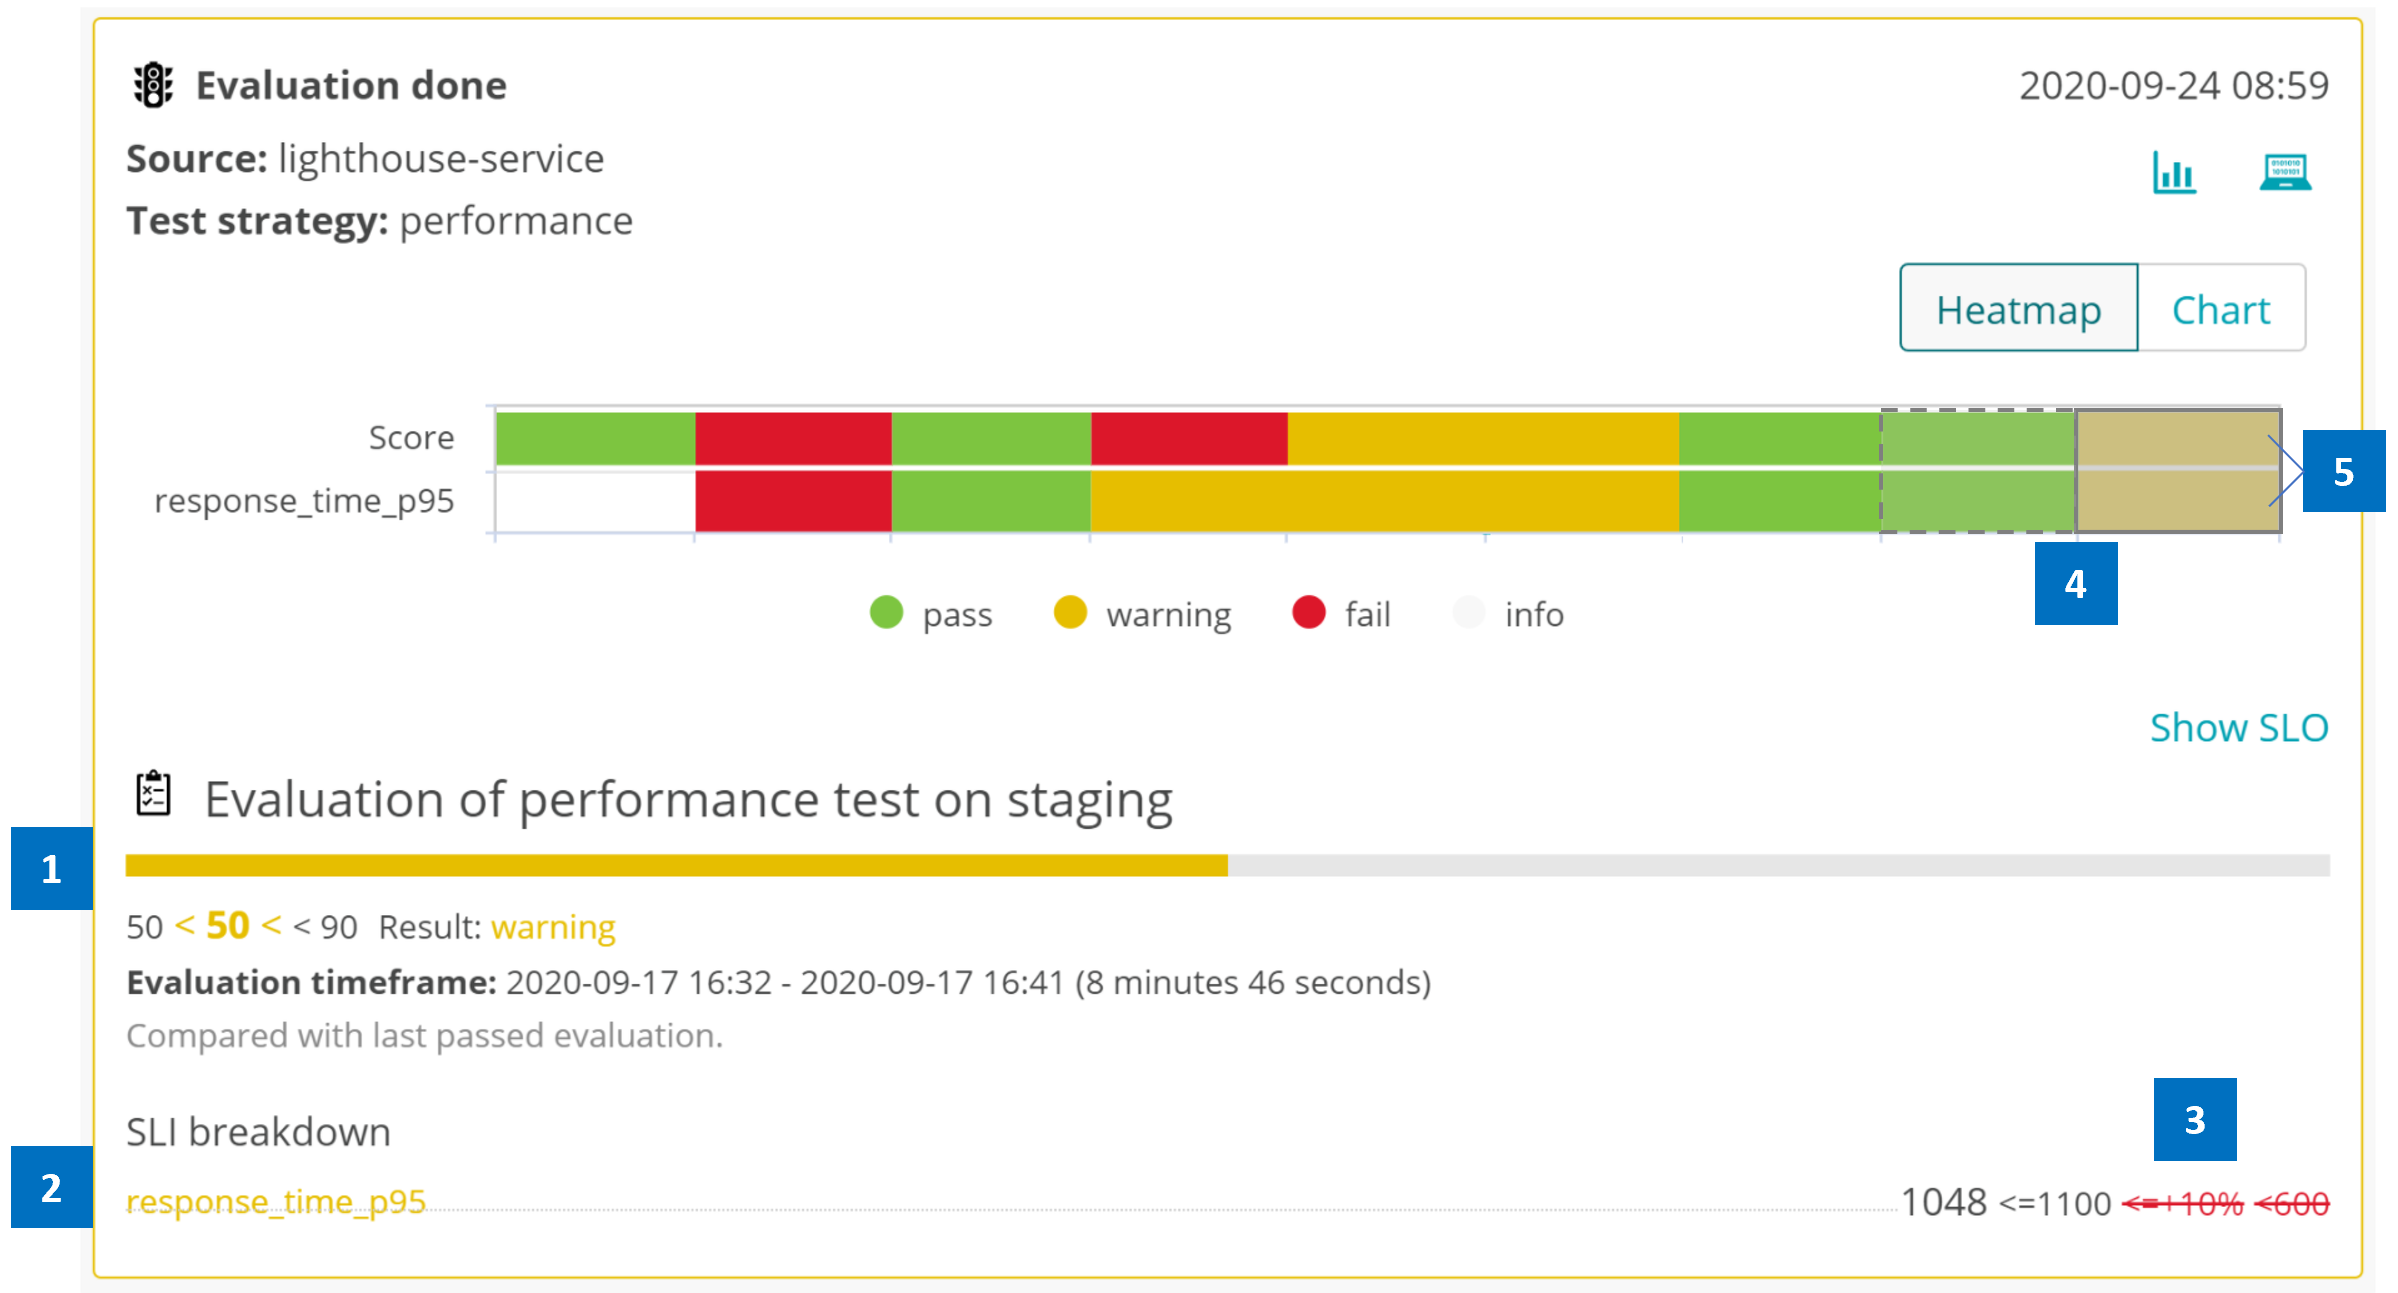
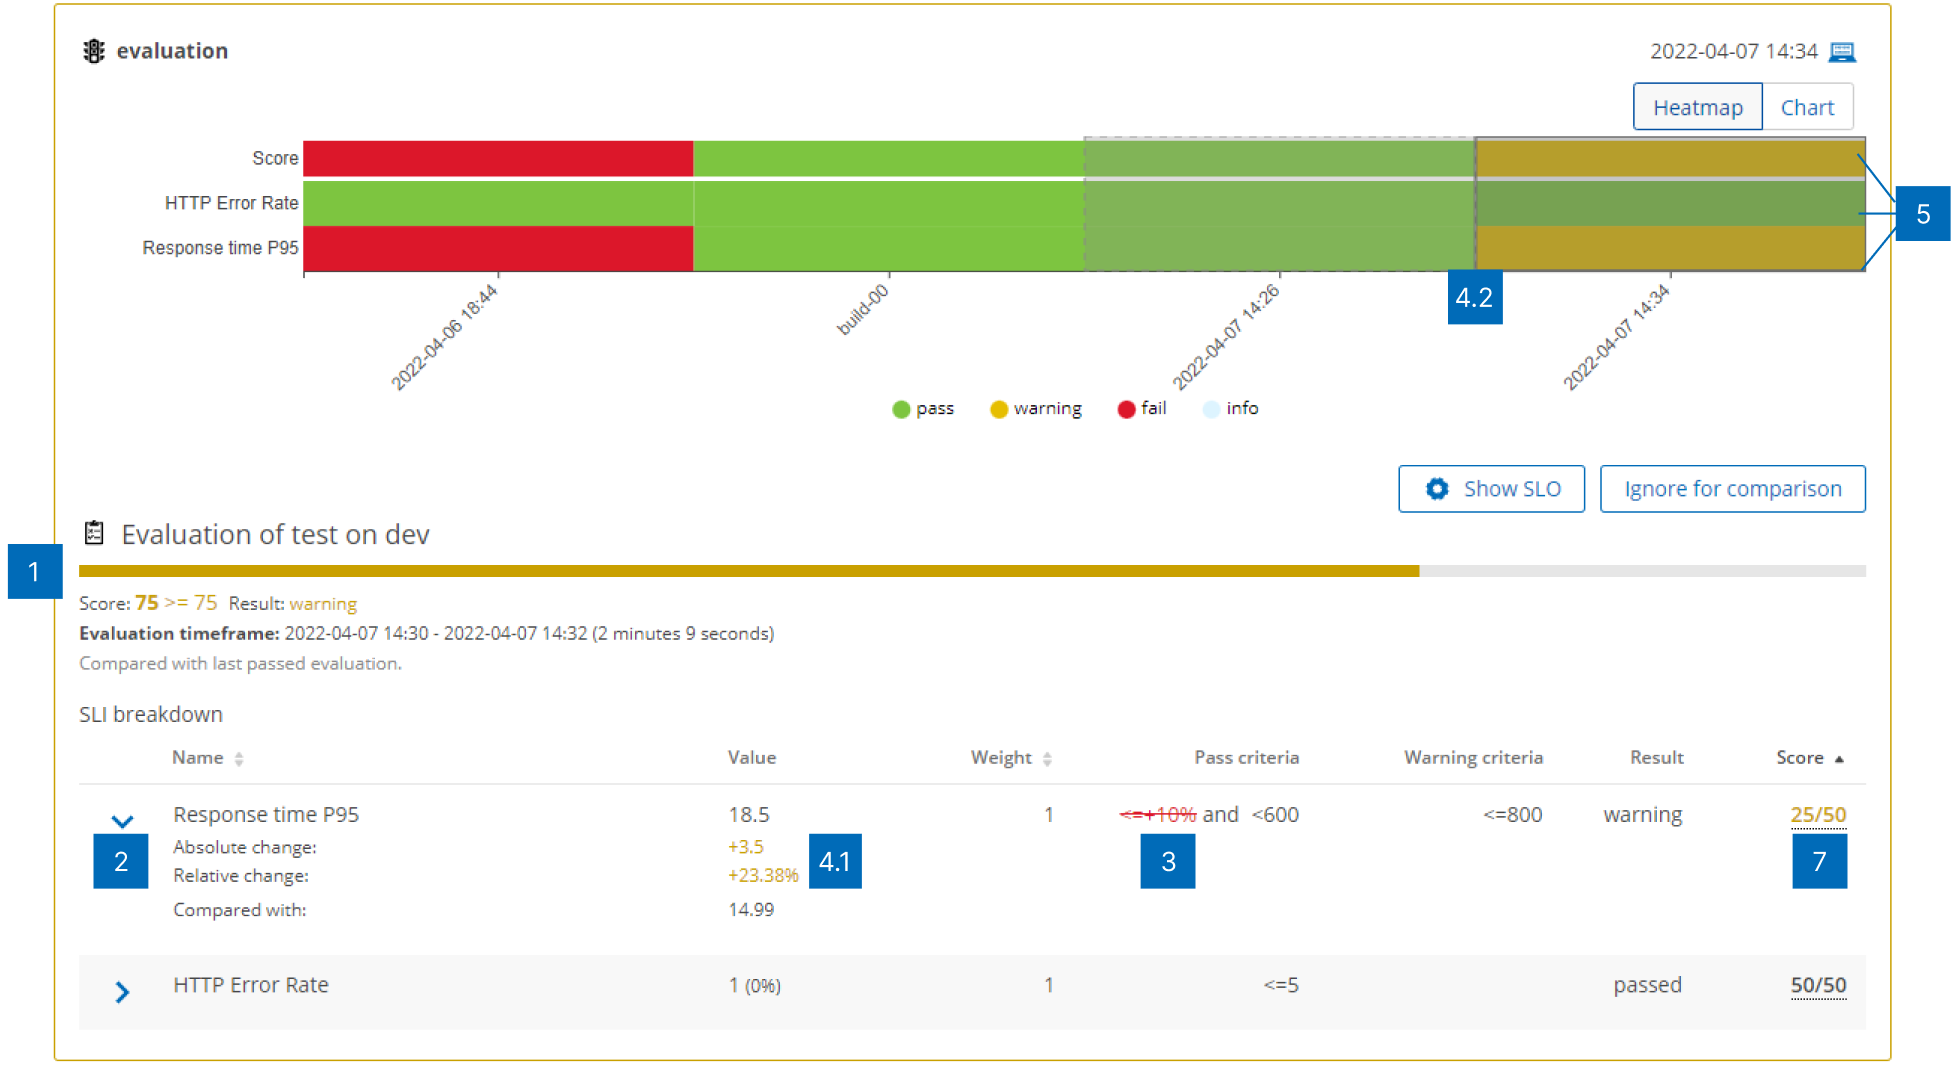
Evaluation score calculation (#1361)
* Evaluation score calculation

* addressed feedback, adapted resolution of image

diff --git a/content/docs/concepts/quality_gates/index.md b/content/docs/concepts/quality_gates/index.md
@@ -57,14 +57,19 @@ This visualization in the Keptn Bridge allows you to answer the following questi
 * First and most important, *does the service meet all defined quality criteria*?
   * :one: Here, the overall result is a *warning* as shown by the orange bar and with the total score between 50 (fail) and 90 (pass) points.
 * Which criteria did not meet its objective?
-  * :two: The *response time P95* was measured with 1048 ms. This value is higher than the pass criteria set at 600 ms.
+  * :two: The *response time P95* was measured with 18.5 ms. This value is higher than the pass criteria allows, which is more than 10% compared to the previous value.
 * What does the <=10% mean?
   * :three: This is a relative comparison for which the quality gate result of a previous evaluation is taken into account. In fact, the last passed comparison is taken as a reference value.
 * How did this quality result perform compared to others?
-  * :four: The answer to this question can be found in the Heatmap and Chart on the top.
+  * :four: The answer to this question can be found in the SLI breakdown (4.1) and the Heatmap and Chart (4.2) on the top.
   * The Heatmap highlights the currently selected quality gate result with a gray and solid border. The quality gate result that is taken into comparison is highlighted by the dashed border.
   * :five: The total score of a quality gate result is depicted by the cell on the top.
   * The individual criteria are represented by a separate cell in the column.
+* How is the score calculated?
+  * The score is a number between 0 and 100 (percentage). The sum of the weights of all indicator results is seen as 100%.
+  * The maximum reachable score of an indicator result depends on its contribution to the total weight. If the sum of all weights is 5 and the indicator result has a weight of 2, the maximum reachable score would be 40 (=2/5*100).
+  * If an indicator result is *failed*, its score is set to 0.
+  * :seven: If an indicator result is *warning*, its score is halved.
 
 ## References
 
